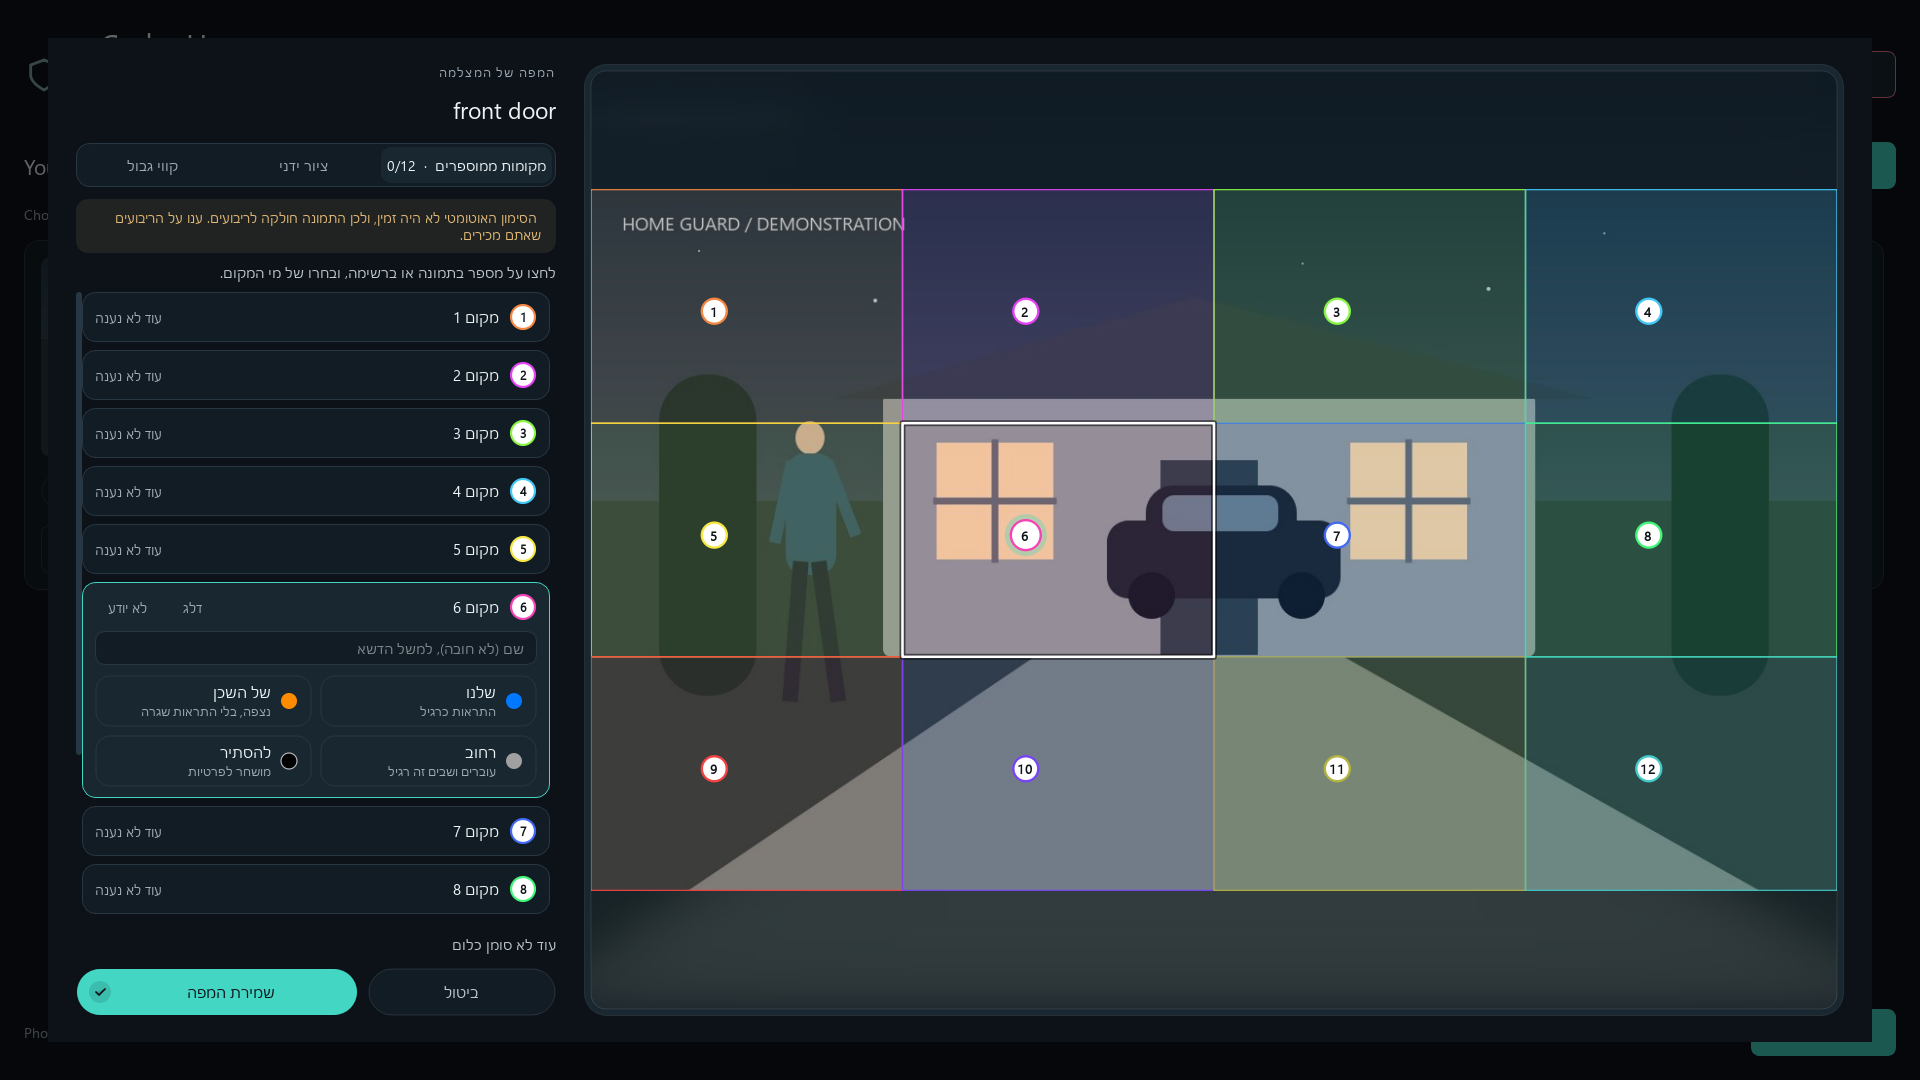
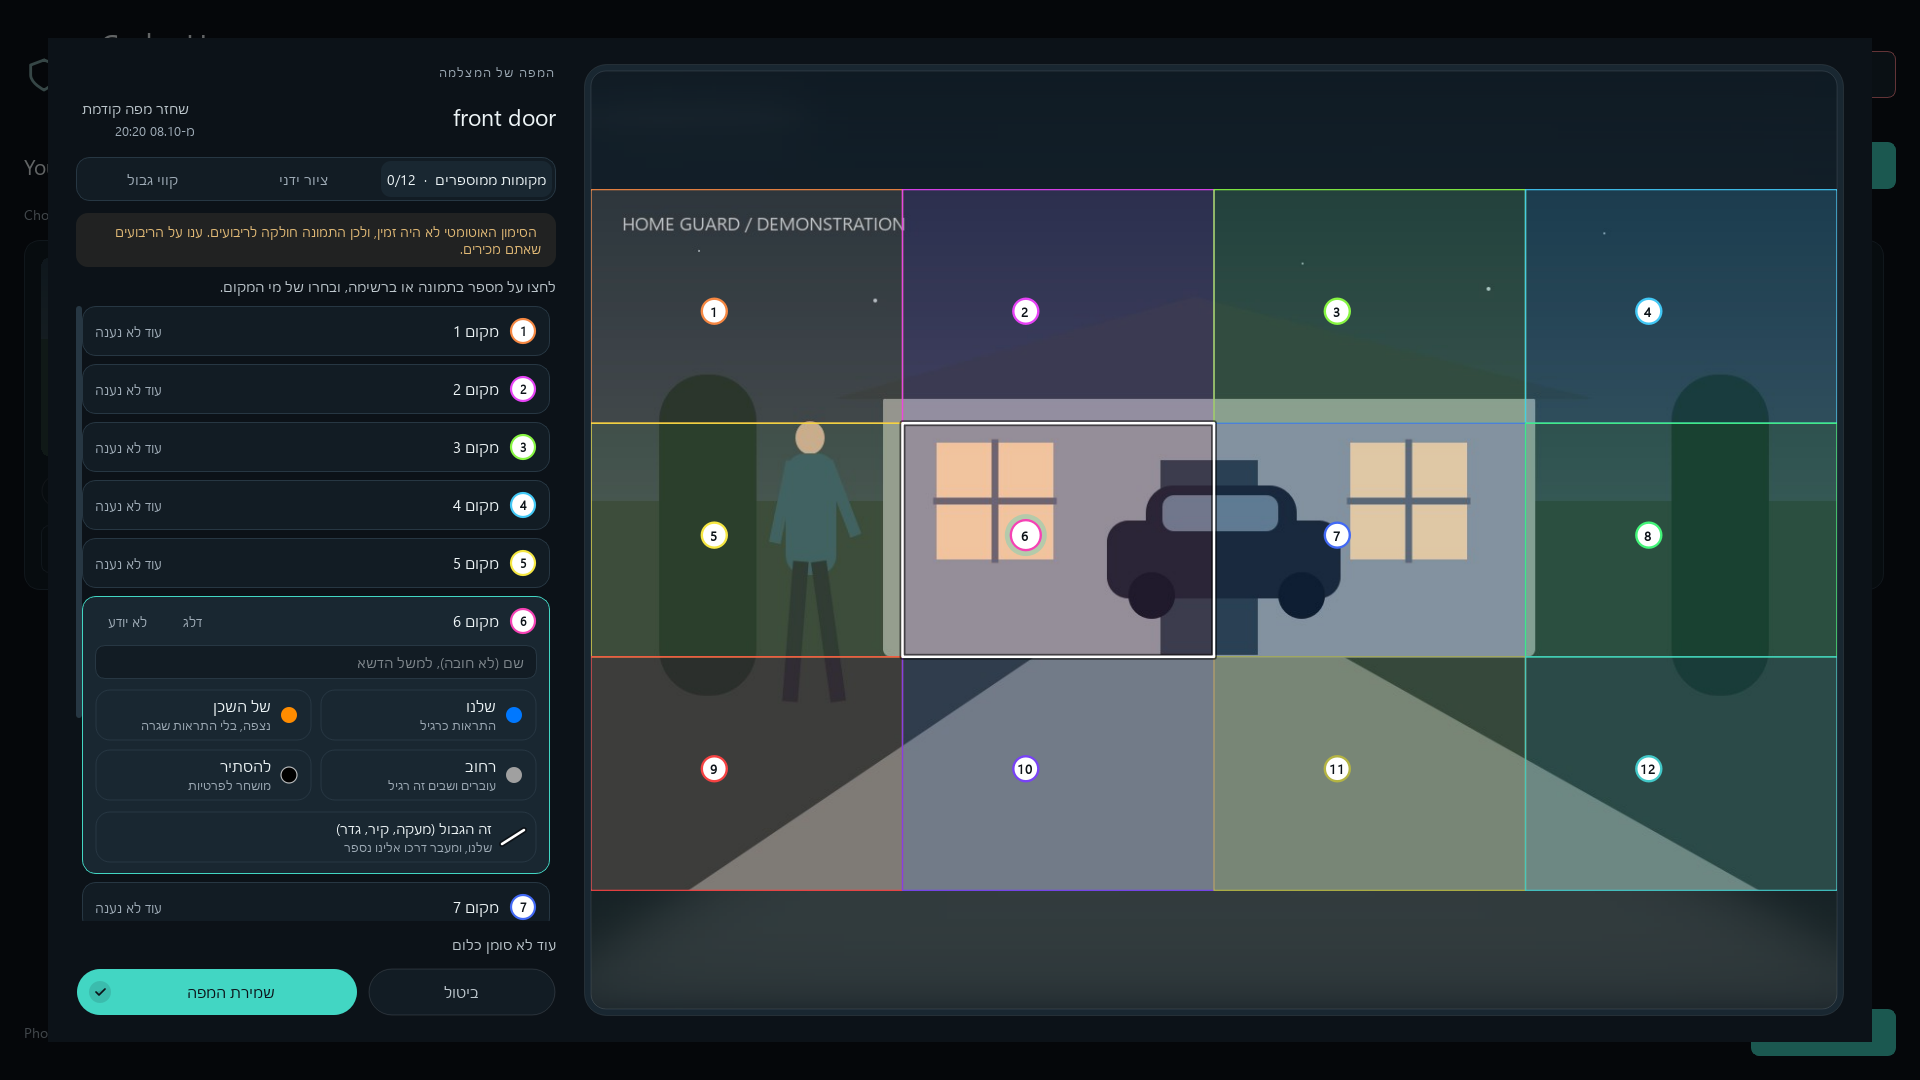
Camera map editor: 'restore the previous map' sits at the end of the camera's name line; screenshots of the boundary question and the restore receipt

Changed region(s): [[0.0312, 0.0917, 0.2812, 0.6722], [0.0312, 0.6417, 0.2812, 0.8556]]

diff --git a/home_guard_project/box/app/scene_editor.py b/home_guard_project/box/app/scene_editor.py
@@ -1180,14 +1180,17 @@ class SceneMapEditor(QWidget):
         eyebrow = st('setup_eyebrow', self.lang, number=setup[0], total=setup[1]) if setup else st('eyebrow', self.lang)
         self.eyebrow = words(eyebrow.upper() if self.lang == 'en' else eyebrow, 'eyebrow'); side.addWidget(self.eyebrow)
         self.eyebrow.setVisible(not setup)              # setup says "camera 2 of 5" above, for the whole step
-        self.title = words(display_title(camera, self.lang), 'title'); side.addWidget(self.title)
-        restore = QHBoxLayout(); restore.setSpacing(8)
+        # The camera's name, and at the end of its line "restore the previous map" with when it was replaced.
+        heading = QHBoxLayout(); heading.setSpacing(12)
+        self.title = words(display_title(camera, self.lang), 'title'); heading.addWidget(self.title, 1)
+        restore = QVBoxLayout(); restore.setSpacing(0); restore.setContentsMargins(0, 0, 0, 0)
         self.restore_button = TextAction(st('restore_button', self.lang))
         self.restore_button.clicked.connect(self.restore_previous)
         self.restore_when = words('', 'muted', wrap=False)
-        restore.addWidget(self.restore_button); restore.addWidget(self.restore_when); restore.addStretch(1)
-        self.restore_row = clear(QWidget()); self.restore_row.setLayout(restore); restore.setContentsMargins(0, 0, 0, 0)
-        side.addWidget(self.restore_row)
+        restore.addWidget(self.restore_button); restore.addWidget(self.restore_when)
+        self.restore_row = clear(QWidget()); self.restore_row.setLayout(restore)
+        heading.addWidget(self.restore_row, 0, Qt.AlignmentFlag.AlignVCenter)
+        side.addLayout(heading)
         self.pages = QStackedWidget(); self.pages.setObjectName('sceneClear'); side.addWidget(self.pages, 1)
         # The pages take the room there is (setup is short at 1366x768); the quiet ones scroll when it is not enough.
         self.pages.setSizePolicy(QSizePolicy.Policy.Preferred, QSizePolicy.Policy.Ignored)
